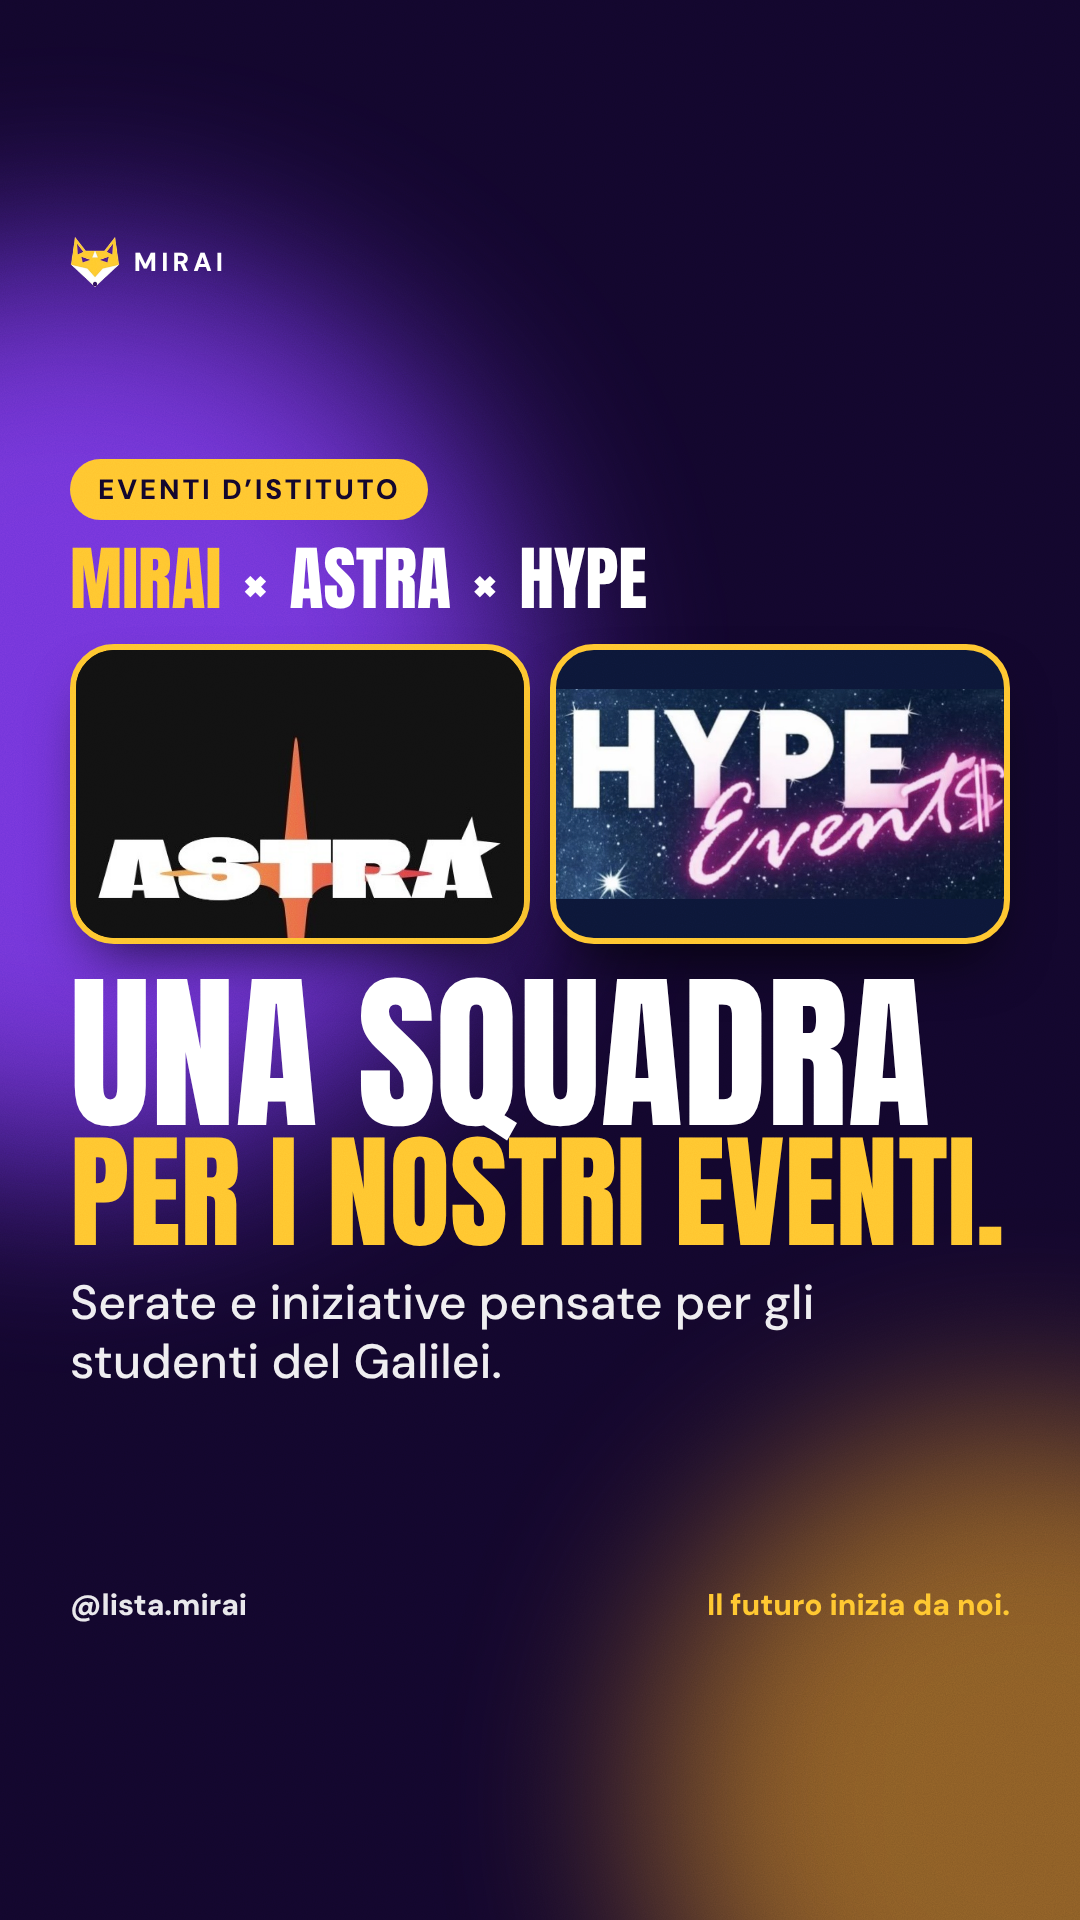
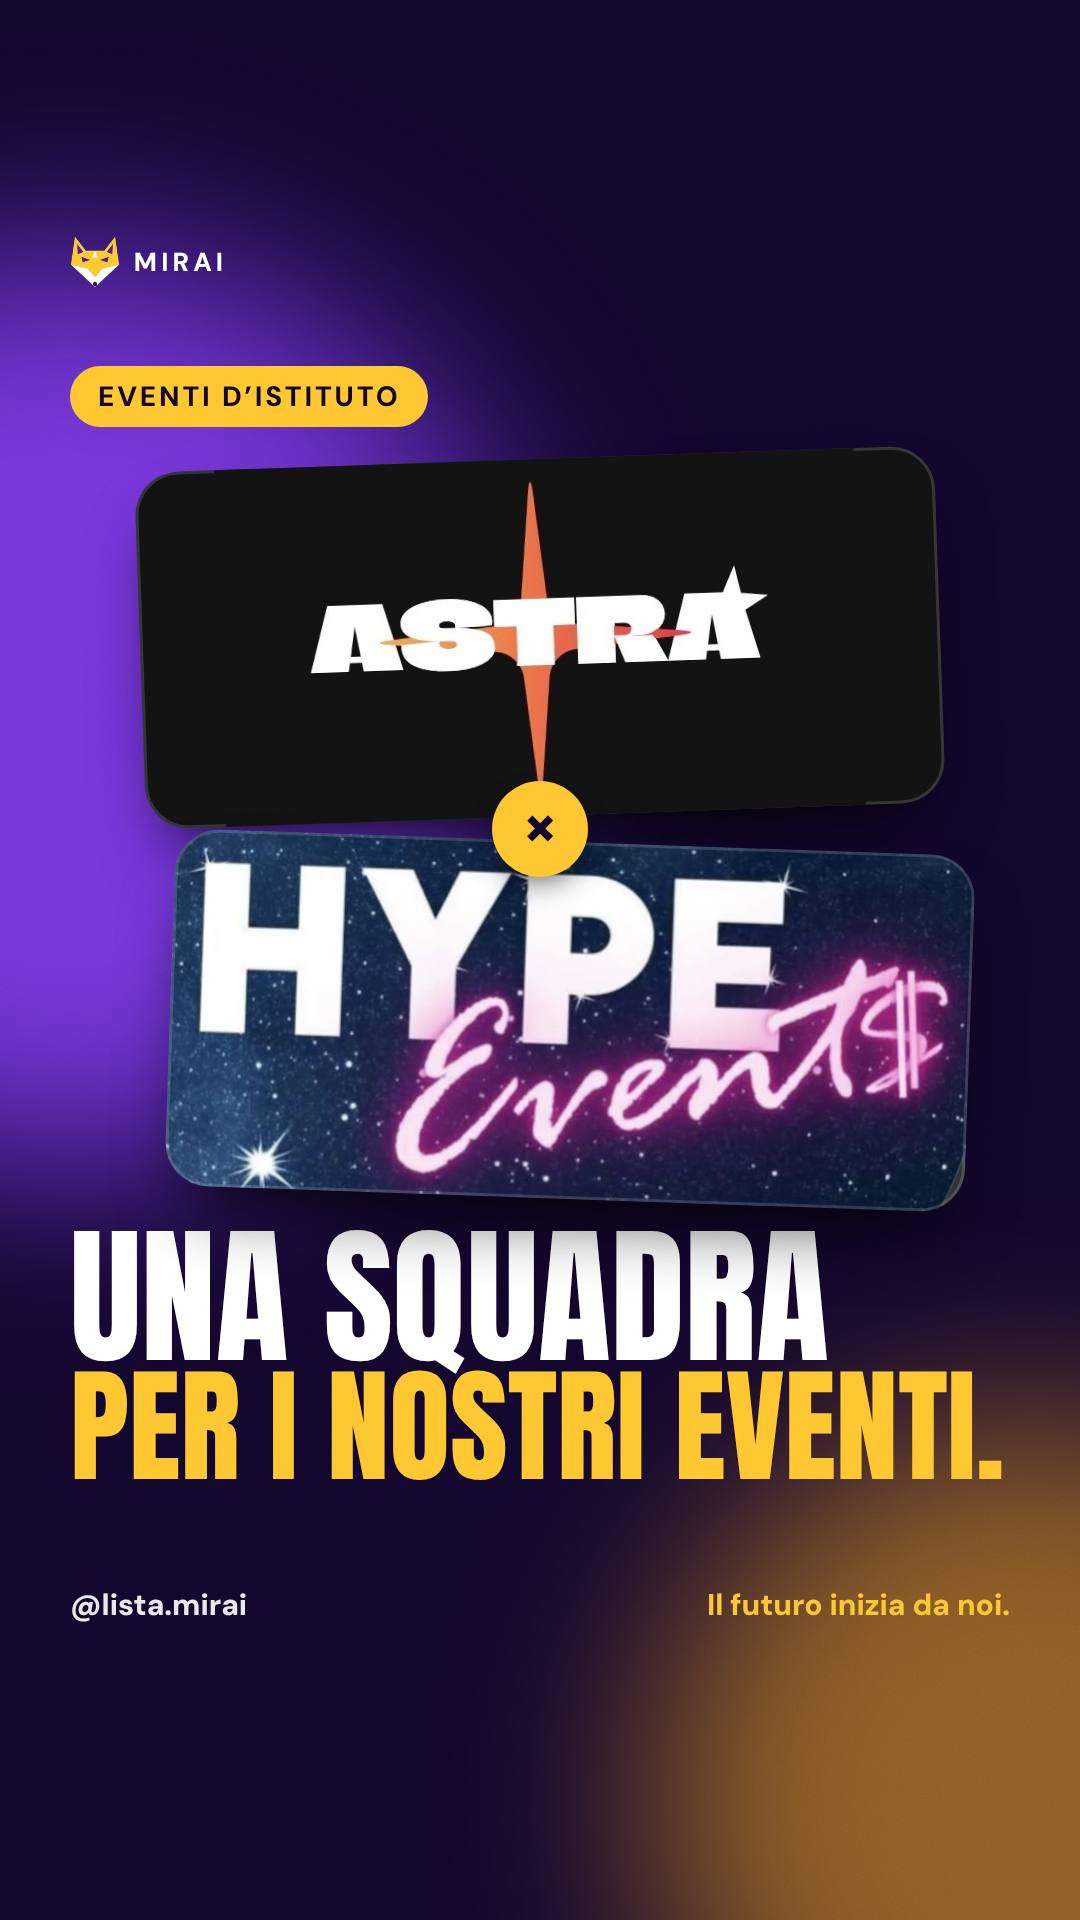
Storia collaborazione: loghi Astra e Hype grandi, senza bordi
Claude-Session: https://claude.ai/code/session_01GjWaSYZkqZzSe8a8dDrV6x

diff --git a/social/collab/collab.html b/social/collab/collab.html
@@ -25,6 +25,13 @@ body{background:#000;font-family:"DM Sans",sans-serif}
 .tape span{padding-right:34px}
 .hastape .safe{bottom:430px}
 /* loghi partner */
+.stack{position:relative;display:flex;flex-direction:column;align-items:center;gap:26px;width:100%;margin:8px 0 4px}
+.pc{position:relative;width:800px;height:357px;border-radius:44px;overflow:hidden;box-shadow:0 40px 70px -26px rgba(0,0,0,.85);outline:3px solid rgba(255,255,255,.14);outline-offset:-3px}
+.pc.astra{background:#111;transform:rotate(-2deg)}
+.pc.astra img{position:absolute;left:50%;top:50%;width:640px;height:640px;margin:-320px 0 0 -320px;object-fit:cover}
+.pc.hype{transform:rotate(2deg);margin-left:60px}
+.pc.hype img{width:100%;height:100%;object-fit:cover;display:block}
+.plus{position:absolute;left:50%;top:50%;transform:translate(-50%,-50%);z-index:5;width:96px;height:96px;border-radius:50%;background:var(--gold);color:var(--ink);display:grid;place-items:center;font:800 64px/1 "DM Sans";padding-bottom:6px;box-shadow:0 14px 30px -10px rgba(0,0,0,.7)}
 .logos{display:flex;align-items:center;gap:20px;width:100%;margin:6px 0}
 .lc{flex:1;height:300px;border-radius:44px;border:6px solid var(--gold);overflow:hidden;display:grid;place-items:center;box-shadow:0 30px 60px -24px rgba(0,0,0,.8)}
 .lc img{width:100%;height:100%;object-fit:contain}
@@ -47,10 +54,8 @@ body{background:#000;font-family:"DM Sans",sans-serif}
 <section class="st v1" id="s1"><div class="blob b1"></div><div class="blob b2"></div>
  <div class="brand"><img src="../../assets/fox-96.png" alt="">Mirai</div>
  <div class="safe"><span class="kick">Eventi d’istituto</span>
-  <div class="three"><span class="m">Mirai</span><span>×</span><span>Astra</span><span>×</span><span>Hype</span></div>
-  <div class="logos"><div class="lc astra"><img src="astra.jpg" alt="Astra"></div><div class="lc hype"><img src="hype.jpg" alt="Hype Events"></div></div>
-  <div class="h A"><div class="w" data-max="170">Una squadra</div><div class="g" data-max="170">per i nostri eventi.</div></div>
-  <div class="desc">Serate e iniziative pensate per gli studenti del Galilei.</div></div>
+  <div class="stack"><div class="pc astra"><img src="astra.jpg" alt="Astra"></div><div class="plus">×</div><div class="pc hype"><img src="hype.jpg" alt="Hype Events"></div></div>
+  <div class="h A"><div class="w" data-max="150">Una squadra</div><div class="g" data-max="150">per i nostri eventi.</div></div></div>
  <div class="handle"><span>@lista.mirai</span><b>Il futuro inizia da noi.</b></div>
 </section>
 
